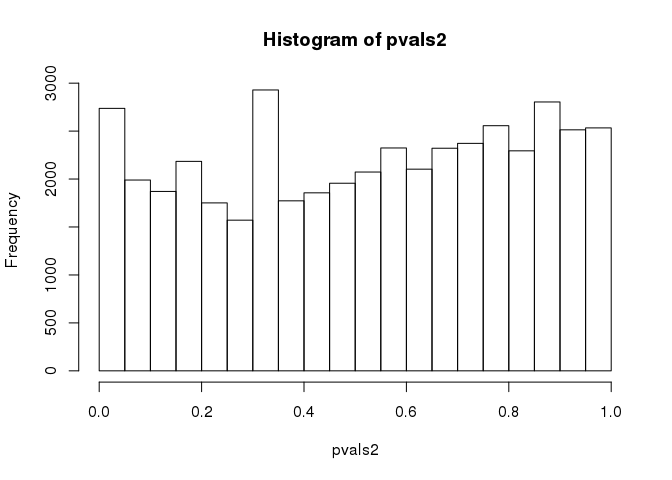
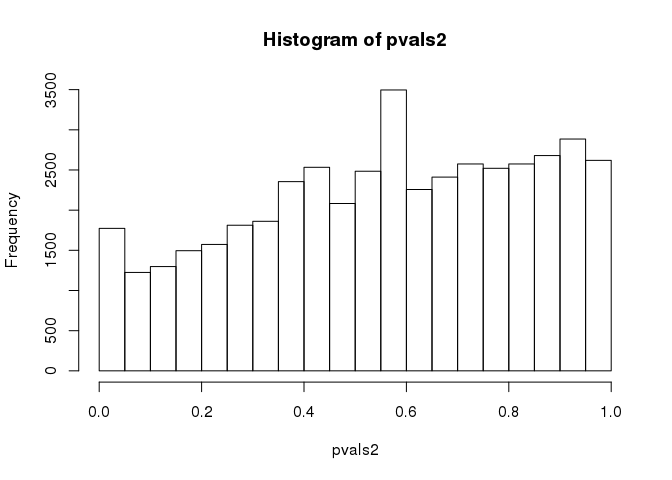
Rmd high expressed genes code

diff --git a/GRLaV_Vv_EdgeR.md b/GRLaV_Vv_EdgeR.md
@@ -391,6 +391,65 @@ if(est_pi0) {
     ## [1] 0.8772344
 
 ``` r
+## Obtaining genes that show zero differential expression
+high_expressed_no_de_genes <- subset(topN$table, logFC < 0.01 & logFC > -0.01 & logCPM > 6)
+dim(high_expressed_no_de_genes)
+```
+
+    ## [1] 44  5
+
+``` r
+knitr::kable(high_expressed_no_de_genes)
+```
+
+|                   |       logFC|    logCPM|         LR|     PValue|        FDR|
+|-------------------|-----------:|---------:|----------:|----------:|----------:|
+| GSVIVG01035560001 |   0.0096193|  6.766034|  0.0002545|  0.9872721|  0.9980514|
+| GSVIVG01026955001 |   0.0092157|  8.328945|  0.0002482|  0.9874295|  0.9980514|
+| GSVIVG01025150001 |   0.0092277|  7.340194|  0.0002448|  0.9875164|  0.9980514|
+| GSVIVG01027623001 |  -0.0090247|  8.529010|  0.0002351|  0.9877653|  0.9980878|
+| GSVIVG01023149001 |  -0.0086300|  7.397486|  0.0002154|  0.9882914|  0.9984042|
+| GSVIVG01007667001 |  -0.0086422|  6.603043|  0.0002083|  0.9884852|  0.9984925|
+| GSVIVG01020148001 |  -0.0079954|  6.695240|  0.0001855|  0.9891339|  0.9987354|
+| GSVIVG01016172001 |  -0.0079864|  6.363361|  0.0001708|  0.9895737|  0.9987518|
+| GSVIVG01037389001 |   0.0072654|  8.842384|  0.0001454|  0.9903782|  0.9987518|
+| GSVIVG01032481001 |   0.0068749|  7.400257|  0.0001316|  0.9908485|  0.9988192|
+| GSVIVG01024351001 |   0.0066438|  6.595527|  0.0001286|  0.9909534|  0.9988192|
+| GSVIVG01016175001 |  -0.0068956|  8.372377|  0.0001235|  0.9911316|  0.9988192|
+| GSVIVG01011157001 |  -0.0064873|  6.181025|  0.0001230|  0.9911516|  0.9988192|
+| GSVIVG01026933001 |  -0.0060020|  8.514981|  0.0001018|  0.9919501|  0.9988835|
+| GSVIVG01024906001 |  -0.0056081|  7.044063|  0.0000896|  0.9924458|  0.9988835|
+| GSVIVG01020909001 |  -0.0052810|  6.437810|  0.0000815|  0.9927967|  0.9988835|
+| GSVIVG01023097001 |   0.0053598|  7.737012|  0.0000813|  0.9928077|  0.9988835|
+| GSVIVG01012108001 |  -0.0045944|  7.762512|  0.0000601|  0.9938132|  0.9991259|
+| GSVIVG01023279001 |   0.0043907|  6.632207|  0.0000559|  0.9940340|  0.9991259|
+| GSVIVG01018976001 |  -0.0043287|  7.409126|  0.0000541|  0.9941303|  0.9991259|
+| GSVIVG01013410001 |  -0.0042449|  6.319190|  0.0000534|  0.9941687|  0.9991259|
+| GSVIVG01024872001 |  -0.0044438|  6.913532|  0.0000476|  0.9944966|  0.9991259|
+| GSVIVG01028110001 |  -0.0039417|  6.118935|  0.0000434|  0.9947412|  0.9991259|
+| GSVIVG01028469001 |   0.0037043|  7.556680|  0.0000377|  0.9950986|  0.9991259|
+| GSVIVG01031917001 |   0.0033651|  8.046064|  0.0000330|  0.9954164|  0.9991259|
+| GSVIVG01003431001 |   0.0032718|  6.984425|  0.0000298|  0.9956428|  0.9991259|
+| GSVIVG01022134001 |  -0.0029792|  7.079454|  0.0000257|  0.9959585|  0.9991259|
+| GSVIVG01014611001 |  -0.0029376|  7.922877|  0.0000251|  0.9960030|  0.9991259|
+| GSVIVG01018981001 |  -0.0027370|  9.127035|  0.0000214|  0.9963076|  0.9992104|
+| GSVIVG01030215001 |  -0.0027176|  8.572273|  0.0000211|  0.9963339|  0.9992104|
+| GSVIVG01038192001 |  -0.0022813|  6.106554|  0.0000150|  0.9969058|  0.9995702|
+| GSVIVG01015776001 |  -0.0020566|  8.135706|  0.0000110|  0.9973519|  0.9995791|
+| GSVIVG01014274001 |   0.0018921|  6.190281|  0.0000103|  0.9974376|  0.9995791|
+| GSVIVG01027421001 |  -0.0017354|  6.016956|  0.0000086|  0.9976594|  0.9995791|
+| GSVIVG01026078001 |  -0.0015889|  6.029026|  0.0000072|  0.9978525|  0.9995791|
+| GSVIVG01028918001 |  -0.0014499|  6.579718|  0.0000061|  0.9980266|  0.9995791|
+| GSVIVG01029990001 |   0.0013799|  6.008549|  0.0000046|  0.9982967|  0.9995791|
+| GSVIVG01028366001 |  -0.0008574|  6.234964|  0.0000022|  0.9988265|  0.9995791|
+| GSVIVG01017246001 |  -0.0008402|  6.669017|  0.0000020|  0.9988790|  0.9995791|
+| GSVIVG01034612001 |   0.0008242|  9.928666|  0.0000019|  0.9988984|  0.9995791|
+| GSVIVG01032056001 |   0.0004471|  7.096361|  0.0000006|  0.9993934|  0.9995791|
+| GSVIVG01016775001 |   0.0004009|  8.513735|  0.0000005|  0.9994546|  0.9995791|
+| GSVIVG01028140001 |  -0.0003998|  7.817238|  0.0000005|  0.9994578|  0.9995791|
+| GSVIVG01019440001 |   0.0003496|  6.430739|  0.0000004|  0.9995250|  0.9995791|
+
+``` r
 # Use the quasi-likelihood model to obtain DE genes.
 # From edgeR manual: 
 #"While the likelihood ratio test is a more obvious choice for inferences with GLMs, the QL
@@ -472,7 +531,7 @@ head(de_genes2, n=10)
 
 ``` r
 ## estimate pi0
-pvals2 <- topN$table$PValue
+pvals2 <- topN2$table$PValue
 
 hist(pvals2)
 ```
@@ -491,4 +550,63 @@ if(est_pi0) {
 }
 ```
 
-    ## [1] 0.8772344
+    ## [1] 0.833443
+
+``` r
+## Obtaining genes that show zero differential expression
+high_expressed_no_de_genes <- subset(topN2$table, logFC < 0.01 & logFC > -0.01 & logCPM > 6)
+dim(high_expressed_no_de_genes)
+```
+
+    ## [1] 44  5
+
+``` r
+knitr::kable(high_expressed_no_de_genes)
+```
+
+|                   |       logFC|    logCPM|          F|     PValue|        FDR|
+|-------------------|-----------:|---------:|----------:|----------:|----------:|
+| GSVIVG01035560001 |   0.0097809|  6.766034|  0.0003477|  0.9853865|  0.9965800|
+| GSVIVG01025150001 |   0.0093373|  7.340194|  0.0003394|  0.9855628|  0.9965800|
+| GSVIVG01026955001 |   0.0092510|  8.328945|  0.0003310|  0.9857418|  0.9965800|
+| GSVIVG01027623001 |  -0.0090853|  8.529010|  0.0003114|  0.9861692|  0.9967414|
+| GSVIVG01023149001 |  -0.0086895|  7.397486|  0.0002961|  0.9865146|  0.9969314|
+| GSVIVG01007667001 |  -0.0088476|  6.603043|  0.0002883|  0.9866934|  0.9970047|
+| GSVIVG01020148001 |  -0.0080940|  6.695240|  0.0002561|  0.9874567|  0.9974206|
+| GSVIVG01016172001 |  -0.0083043|  6.363361|  0.0002369|  0.9879377|  0.9974919|
+| GSVIVG01037389001 |   0.0073093|  8.842384|  0.0001866|  0.9892950|  0.9975508|
+| GSVIVG01032481001 |   0.0067392|  7.400257|  0.0001687|  0.9898205|  0.9976953|
+| GSVIVG01024351001 |   0.0065628|  6.595527|  0.0001686|  0.9898235|  0.9976953|
+| GSVIVG01011157001 |  -0.0063526|  6.181025|  0.0001557|  0.9902205|  0.9978810|
+| GSVIVG01016175001 |  -0.0067277|  8.372377|  0.0001483|  0.9904548|  0.9979027|
+| GSVIVG01024906001 |  -0.0057964|  7.044063|  0.0001291|  0.9910962|  0.9980208|
+| GSVIVG01026933001 |  -0.0059309|  8.514981|  0.0001289|  0.9911020|  0.9980208|
+| GSVIVG01020909001 |  -0.0055242|  6.437810|  0.0001189|  0.9914556|  0.9980532|
+| GSVIVG01023097001 |   0.0054848|  7.737012|  0.0001137|  0.9916411|  0.9981035|
+| GSVIVG01012108001 |  -0.0047132|  7.762512|  0.0000847|  0.9927848|  0.9981035|
+| GSVIVG01013410001 |  -0.0043896|  6.319190|  0.0000759|  0.9931709|  0.9981035|
+| GSVIVG01018976001 |  -0.0044008|  7.409126|  0.0000758|  0.9931756|  0.9981035|
+| GSVIVG01023279001 |   0.0042513|  6.632207|  0.0000705|  0.9934208|  0.9981710|
+| GSVIVG01028110001 |  -0.0042765|  6.118935|  0.0000664|  0.9936111|  0.9981710|
+| GSVIVG01028469001 |   0.0038012|  7.556680|  0.0000527|  0.9943112|  0.9984745|
+| GSVIVG01031917001 |   0.0033495|  8.046064|  0.0000438|  0.9948144|  0.9988070|
+| GSVIVG01029990001 |   0.0038313|  6.008549|  0.0000429|  0.9948667|  0.9988070|
+| GSVIVG01022134001 |  -0.0030442|  7.079454|  0.0000363|  0.9952758|  0.9988196|
+| GSVIVG01003431001 |   0.0030903|  6.984425|  0.0000355|  0.9953309|  0.9988196|
+| GSVIVG01014611001 |  -0.0029613|  7.922877|  0.0000343|  0.9954117|  0.9988196|
+| GSVIVG01024872001 |  -0.0031472|  6.913532|  0.0000299|  0.9957124|  0.9989640|
+| GSVIVG01030215001 |  -0.0027859|  8.572273|  0.0000288|  0.9957911|  0.9989640|
+| GSVIVG01018981001 |  -0.0027540|  9.127035|  0.0000274|  0.9958960|  0.9989640|
+| GSVIVG01014274001 |   0.0022357|  6.190281|  0.0000189|  0.9965899|  0.9989937|
+| GSVIVG01015776001 |  -0.0022232|  8.135706|  0.0000164|  0.9968252|  0.9989937|
+| GSVIVG01038192001 |  -0.0020540|  6.106554|  0.0000160|  0.9968634|  0.9989937|
+| GSVIVG01027421001 |  -0.0019762|  6.016956|  0.0000146|  0.9970060|  0.9990298|
+| GSVIVG01028918001 |  -0.0015929|  6.579718|  0.0000099|  0.9975326|  0.9993439|
+| GSVIVG01026078001 |  -0.0014049|  6.029026|  0.0000074|  0.9978661|  0.9994646|
+| GSVIVG01028366001 |  -0.0009041|  6.234964|  0.0000032|  0.9986009|  0.9996668|
+| GSVIVG01034612001 |   0.0008257|  9.928666|  0.0000023|  0.9988202|  0.9996749|
+| GSVIVG01019440001 |   0.0006214|  6.430739|  0.0000015|  0.9990426|  0.9996749|
+| GSVIVG01017246001 |  -0.0006070|  6.669017|  0.0000014|  0.9990839|  0.9996749|
+| GSVIVG01016775001 |   0.0004380|  8.513735|  0.0000007|  0.9993298|  0.9996749|
+| GSVIVG01032056001 |   0.0003790|  7.096361|  0.0000006|  0.9994118|  0.9996749|
+| GSVIVG01028140001 |  -0.0003240|  7.817238|  0.0000004|  0.9994995|  0.9996749|

diff --git a/GRLaV_Nb_EdgeR.md b/GRLaV_Nb_EdgeR.md
@@ -429,6 +429,49 @@ if(est_pi0) {
     ## [1] 0.9872359
 
 ``` r
+## Obtaining genes that show zero differential expression
+high_expressed_no_de_genes <- subset(topN$table, logFC < 0.01 & logFC > -0.01 & logCPM > 6)
+dim(high_expressed_no_de_genes)
+```
+
+    ## [1] 28  5
+
+``` r
+knitr::kable(high_expressed_no_de_genes)
+```
+
+|                        |       logFC|     logCPM|         LR|     PValue|        FDR|
+|------------------------|-----------:|----------:|----------:|----------:|----------:|
+| Niben101Scf01196g00003 |   0.0096889|   6.043966|  0.0001645|  0.9897653|  0.9995753|
+| Niben101Scf02972g01003 |   0.0087496|   8.294383|  0.0001248|  0.9910879|  0.9995753|
+| Niben101Scf02164g04001 |   0.0081702|   7.644829|  0.0001102|  0.9916243|  0.9995753|
+| Niben101Scf09908g00005 |  -0.0080815|   7.401203|  0.0001082|  0.9916993|  0.9995753|
+| Niben101Scf03169g05002 |   0.0079898|   9.577414|  0.0001015|  0.9919604|  0.9995753|
+| Niben101Scf35531g00006 |  -0.0076203|   6.287457|  0.0001006|  0.9919990|  0.9995753|
+| Niben101Scf02078g05005 |  -0.0070210|   7.569653|  0.0000814|  0.9928001|  0.9995753|
+| Niben101Scf10189g02009 |  -0.0068661|   6.773991|  0.0000797|  0.9928784|  0.9995753|
+| Niben101Scf02613g03001 |   0.0067699|   8.472678|  0.0000744|  0.9931190|  0.9995753|
+| Niben101Scf06516g04018 |   0.0063622|   6.222272|  0.0000703|  0.9933083|  0.9995753|
+| Niben101Scf07824g00009 |   0.0058622|   8.631338|  0.0000556|  0.9940511|  0.9996981|
+| Niben101Scf00550g00014 |  -0.0050760|   7.052778|  0.0000430|  0.9947692|  0.9996981|
+| Niben101Scf01905g00001 |   0.0048720|   7.212177|  0.0000395|  0.9949885|  0.9996981|
+| Niben101Scf00063g13005 |   0.0045982|   6.108572|  0.0000369|  0.9951502|  0.9996981|
+| Niben101Scf01834g01011 |  -0.0046794|   7.211773|  0.0000364|  0.9951837|  0.9996981|
+| Niben101Scf03069g04013 |   0.0043431|   6.330008|  0.0000326|  0.9954447|  0.9997823|
+| Niben101Scf01148g02008 |  -0.0040399|   6.015278|  0.0000286|  0.9957313|  0.9997823|
+| Niben101Scf02031g00029 |   0.0040084|   6.386766|  0.0000277|  0.9958008|  0.9997823|
+| Niben101Scf06579g00007 |  -0.0037393|   6.053308|  0.0000245|  0.9960515|  0.9997823|
+| Niben101Scf06964g00007 |   0.0037818|  13.219614|  0.0000221|  0.9962513|  0.9997823|
+| Niben101Scf01382g05008 |   0.0034531|   6.927004|  0.0000200|  0.9964299|  0.9997823|
+| Niben101Scf01466g01006 |  -0.0023004|   7.136597|  0.0000088|  0.9976312|  0.9998550|
+| Niben101Scf09928g01011 |   0.0020133|   7.082736|  0.0000067|  0.9979280|  0.9998741|
+| Niben101Scf04703g03003 |   0.0009214|   6.252873|  0.0000015|  0.9990317|  0.9998741|
+| Niben101Scf08618g00005 |  -0.0008697|   6.548008|  0.0000013|  0.9990935|  0.9998741|
+| Niben101Scf00568g04071 |  -0.0002956|   9.971503|  0.0000001|  0.9997033|  0.9999488|
+| Niben101Scf04099g08003 |  -0.0000879|   8.674557|  0.0000000|  0.9999108|  0.9999782|
+| Niben101Scf18308g01001 |   0.0000631|   6.922904|  0.0000000|  0.9999347|  0.9999793|
+
+``` r
 # Use the quasi-likelihood model to obtain DE genes.
 # From edgeR manual: 
 #"While the likelihood ratio test is a more obvious choice for inferences with GLMs, the QL
@@ -521,7 +564,7 @@ head(de_genes2, n=10)
 
 ``` r
 ## estimate pi0
-pvals2 <- topN$table$PValue
+pvals2 <- topN2$table$PValue
 
 hist(pvals2)
 ```
@@ -540,4 +583,47 @@ if(est_pi0) {
 }
 ```
 
-    ## [1] 0.9872359
+    ## [1] 0.9922079
+
+``` r
+## Obtaining genes that show zero differential expression
+high_expressed_no_de_genes <- subset(topN2$table, logFC < 0.01 & logFC > -0.01 & logCPM > 6)
+dim(high_expressed_no_de_genes)
+```
+
+    ## [1] 28  5
+
+``` r
+knitr::kable(high_expressed_no_de_genes)
+```
+
+|                        |       logFC|     logCPM|          F|     PValue|        FDR|
+|------------------------|-----------:|----------:|----------:|----------:|----------:|
+| Niben101Scf01196g00003 |   0.0096877|   6.043966|  0.0001977|  0.9887823|  0.9995796|
+| Niben101Scf35531g00006 |  -0.0076193|   6.287457|  0.0001188|  0.9913041|  0.9995796|
+| Niben101Scf02972g01003 |   0.0087497|   8.294383|  0.0001170|  0.9913710|  0.9995796|
+| Niben101Scf09908g00005 |  -0.0080814|   7.401203|  0.0001147|  0.9914568|  0.9995796|
+| Niben101Scf02164g04001 |   0.0081699|   7.644829|  0.0001132|  0.9915097|  0.9995796|
+| Niben101Scf10189g02009 |  -0.0068664|   6.773991|  0.0000903|  0.9924177|  0.9995796|
+| Niben101Scf02078g05005 |  -0.0070206|   7.569653|  0.0000845|  0.9926663|  0.9995796|
+| Niben101Scf06516g04018 |   0.0063616|   6.222272|  0.0000835|  0.9927100|  0.9995796|
+| Niben101Scf03169g05002 |   0.0079899|   9.577414|  0.0000762|  0.9930367|  0.9995796|
+| Niben101Scf02613g03001 |   0.0067697|   8.472678|  0.0000679|  0.9934275|  0.9995807|
+| Niben101Scf07824g00009 |   0.0058620|   8.631338|  0.0000494|  0.9943916|  0.9996934|
+| Niben101Scf00550g00014 |  -0.0050766|   7.052778|  0.0000474|  0.9945078|  0.9996934|
+| Niben101Scf00063g13005 |   0.0045977|   6.108572|  0.0000442|  0.9946957|  0.9996934|
+| Niben101Scf01905g00001 |   0.0048738|   7.212177|  0.0000428|  0.9947802|  0.9996934|
+| Niben101Scf01834g01011 |  -0.0046792|   7.211773|  0.0000395|  0.9949871|  0.9996934|
+| Niben101Scf03069g04013 |   0.0043423|   6.330008|  0.0000384|  0.9950575|  0.9996934|
+| Niben101Scf01148g02008 |  -0.0040408|   6.015278|  0.0000345|  0.9953156|  0.9996934|
+| Niben101Scf02031g00029 |   0.0040084|   6.386766|  0.0000325|  0.9954533|  0.9996934|
+| Niben101Scf06579g00007 |  -0.0037392|   6.053308|  0.0000294|  0.9956733|  0.9996934|
+| Niben101Scf01382g05008 |   0.0034532|   6.927004|  0.0000224|  0.9962275|  0.9996934|
+| Niben101Scf01466g01006 |  -0.0023010|   7.136597|  0.0000096|  0.9975237|  0.9998394|
+| Niben101Scf09928g01011 |   0.0019893|   7.082736|  0.0000073|  0.9978496|  0.9998394|
+| Niben101Scf06964g00007 |   0.0037818|  13.219614|  0.0000070|  0.9978935|  0.9998394|
+| Niben101Scf04703g03003 |   0.0009220|   6.252873|  0.0000017|  0.9989455|  0.9998702|
+| Niben101Scf08618g00005 |  -0.0008699|   6.548008|  0.0000015|  0.9990246|  0.9998702|
+| Niben101Scf00568g04071 |  -0.0002956|   9.971503|  0.0000001|  0.9997529|  0.9999488|
+| Niben101Scf04099g08003 |  -0.0000882|   8.674557|  0.0000000|  0.9999160|  0.9999727|
+| Niben101Scf18308g01001 |   0.0000629|   6.922904|  0.0000000|  0.9999312|  0.9999727|
